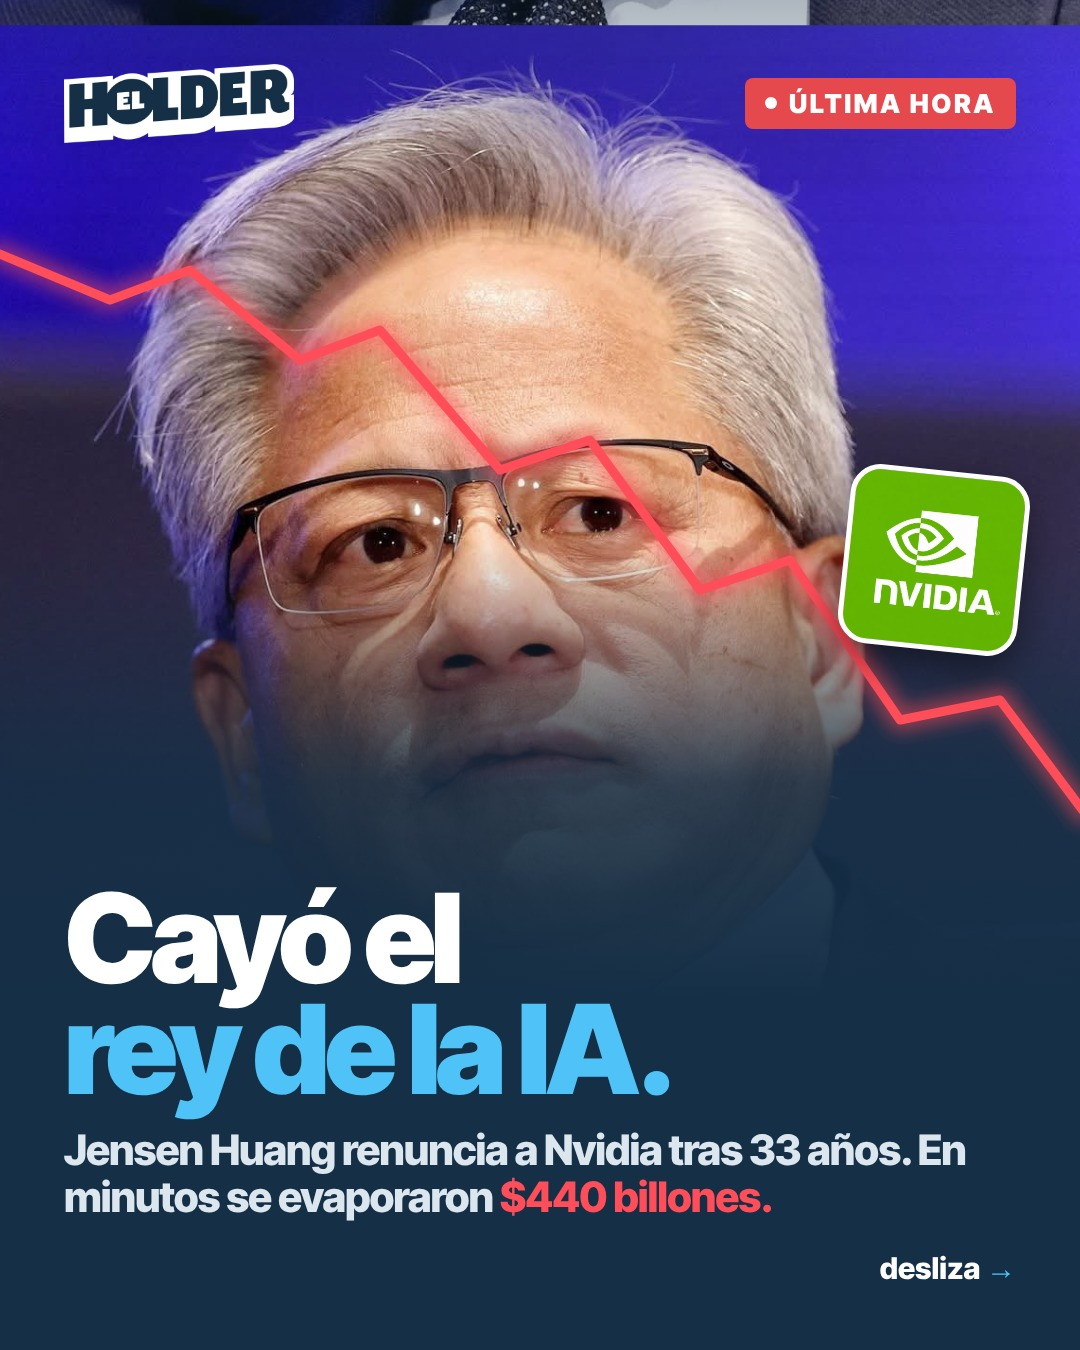
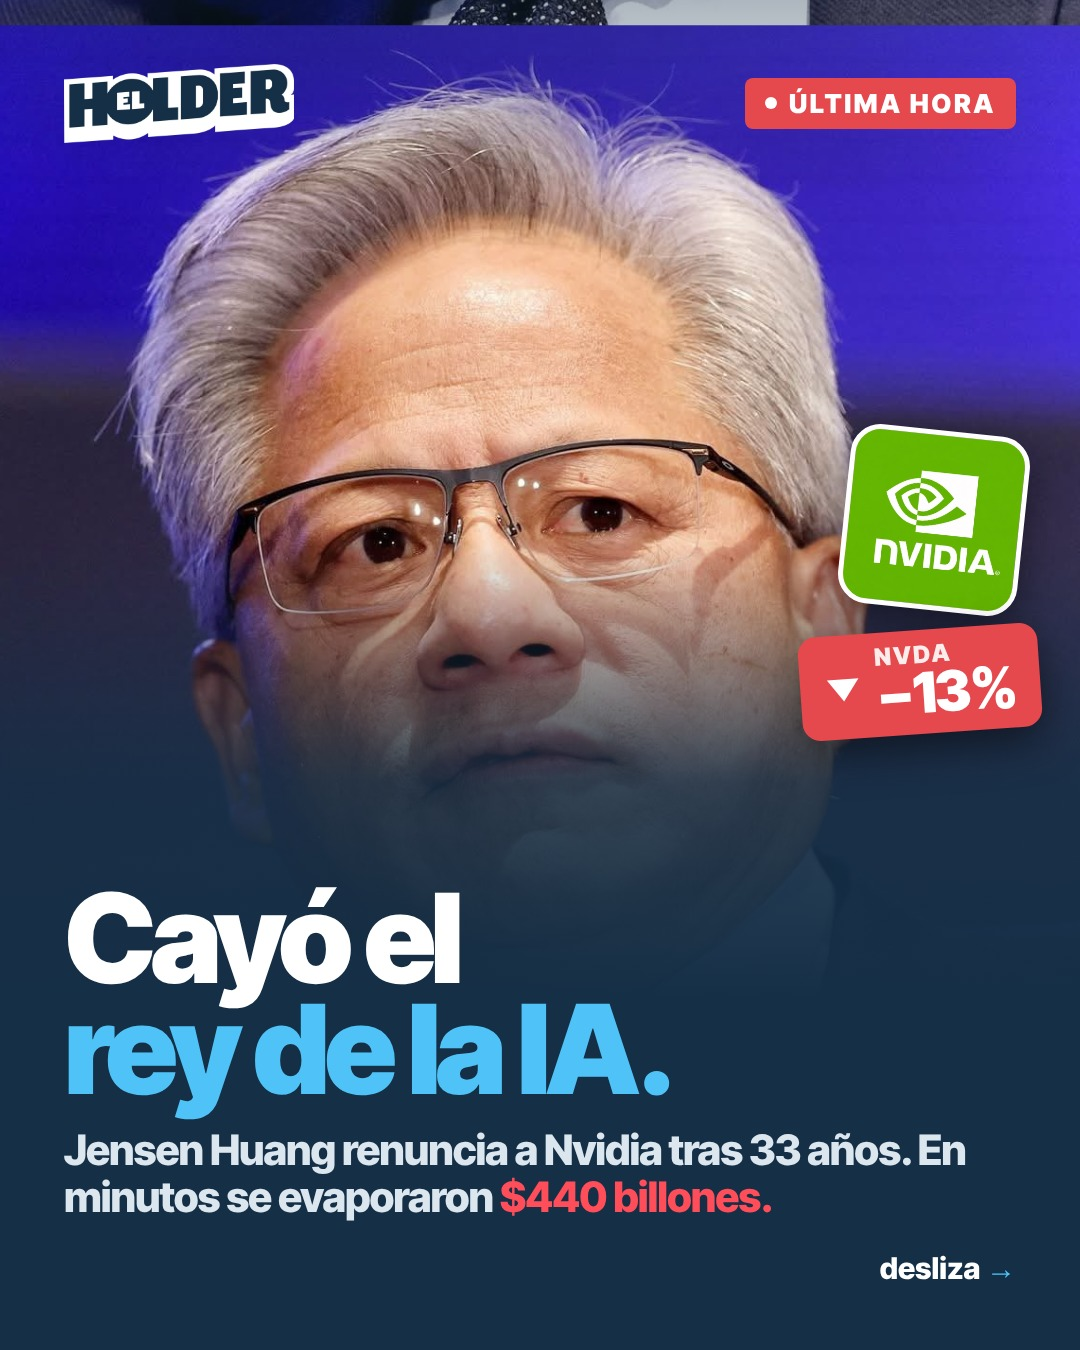
Nvidia: portada sin línea roja, badge NVDA -13%
Claude-Session: https://claude.ai/code/session_011HtJt2a4sBpoKNENnst7wy

Changed region(s): [[0.0, 0.1556, 1.0, 0.6222]]

diff --git a/carruseles/2026-11-12-nvidia-huang-renuncia/src/slide-01.html b/carruseles/2026-11-12-nvidia-huang-renuncia/src/slide-01.html
@@ -20,12 +20,12 @@
 <div class="slide">
   <div class="bg" style="background-image:url(../fondos/jensen.jpg);background-position:center 18%;background-size:112%"></div>
   <div class="capa" style="background:linear-gradient(180deg,rgba(21,47,70,.35) 0%,rgba(21,47,70,0) 14%,rgba(21,47,70,0) 40%,rgba(21,47,70,.86) 58%,#152F46 74%)"></div>
-  <svg style="position:absolute;left:0;top:0" width="1080" height="1350"><defs><filter id="g"><feGaussianBlur stdDeviation="9"/></filter></defs>
-   <polyline points="-10,250 110,300 190,270 300,360 380,330 500,470 590,440 700,590 790,560 900,720 1000,700 1090,820" fill="none" stroke="#FF4D5A" stroke-width="22" stroke-opacity=".55" filter="url(#g)"/>
-   <polyline points="-10,250 110,300 190,270 300,360 380,330 500,470 590,440 700,590 790,560 900,720 1000,700 1090,820" fill="none" stroke="#FF4D5A" stroke-width="9" stroke-linejoin="round"/>
-  </svg>
   <div class="top" style="align-items:center;right:64px;justify-content:space-between"><img src="../../../brand/logo-horizontal-transparente.png" alt="El Holder" style="width:230px;height:auto"><span class="chip"><i></i>ÚLTIMA HORA</span></div>
-  <div style="position:absolute;right:56px;top:470px;width:170px;height:170px;border-radius:30px;background:url(../fondos/nvidia.jpg) center/cover;border:5px solid #fff;transform:rotate(6deg);box-shadow:0 14px 40px rgba(0,0,0,.5)"></div>
+  <div style="position:absolute;right:56px;top:430px;width:170px;height:170px;border-radius:30px;background:url(../fondos/nvidia.jpg) center/cover;border:5px solid #fff;transform:rotate(6deg);box-shadow:0 14px 40px rgba(0,0,0,.5)"></div>
+  <div style="position:absolute;right:40px;top:630px;display:flex;align-items:center;gap:14px;background:#E5484D;color:#fff;border-radius:18px;padding:14px 24px;transform:rotate(-4deg);box-shadow:0 14px 40px rgba(0,0,0,.5);font-weight:900">
+    <svg width="38" height="38" viewBox="0 0 24 24"><path d="M12 21 2 7h20z" fill="#fff"/></svg>
+    <span style="display:flex;flex-direction:column;line-height:.95"><span style="font-size:24px;letter-spacing:.08em;opacity:.9">NVDA</span><span style="font-size:56px;letter-spacing:-.03em">−13%</span></span>
+  </div>
   <div class="abajo" style="bottom:130px;gap:20px">
     <h1 class="t-xl" style="font-size:124px;line-height:.9">Cayó el<br><span class="acento">rey de la IA.</span></h1>
     <p class="t-s" style="font-size:42px;line-height:1.12">Jensen Huang renuncia a Nvidia tras 33 años. En minutos se evaporaron <span class="rojo">$440 billones.</span></p>
